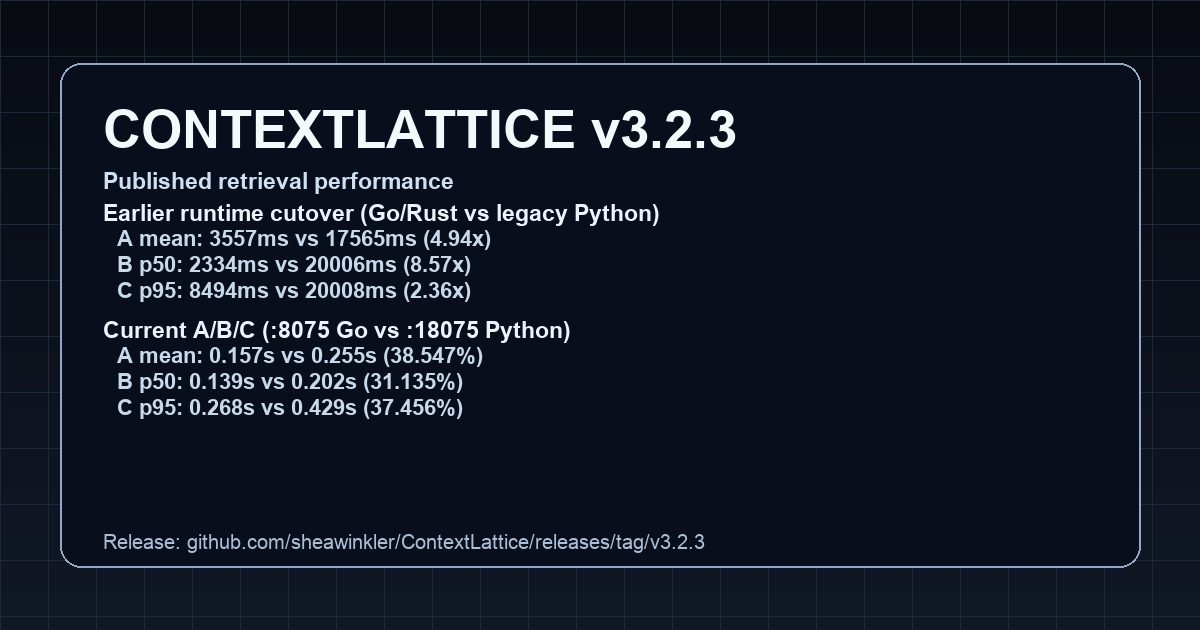
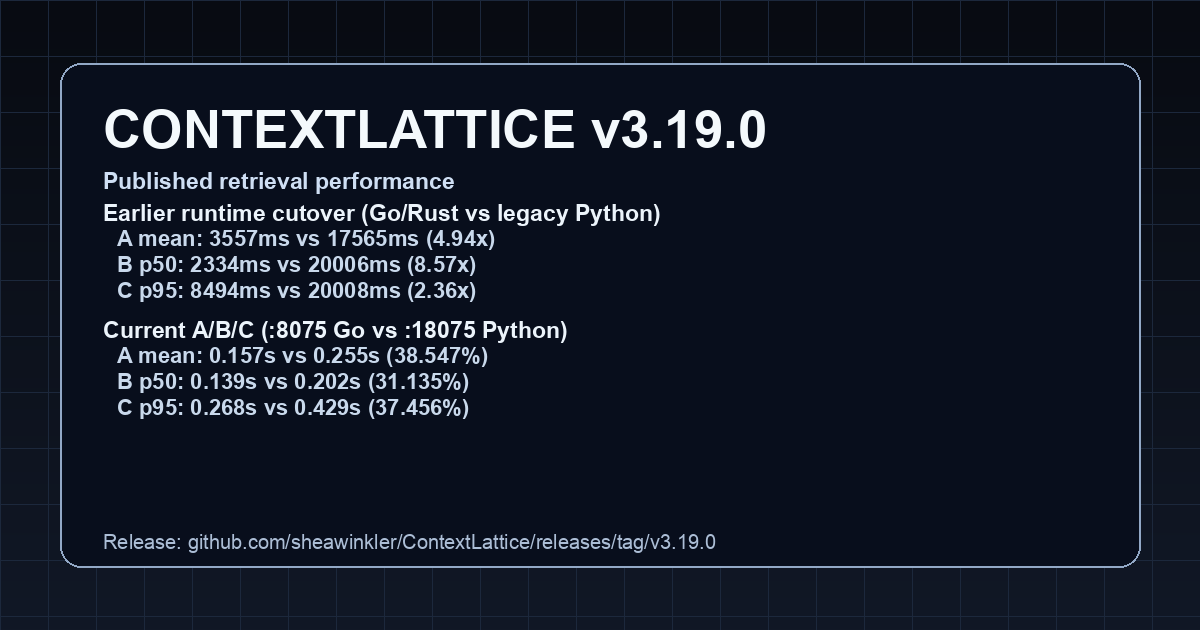
Sync public overview assets from private repo

diff --git a/updates.html b/updates.html
@@ -46,16 +46,109 @@
     <section class="section">
       <article class="card">
         <div class="kicker">Current launch boundary</div>
-        <h3>v3.17.2 puts model storage exactly where the operator says it belongs.</h3>
+        <h3>v3.19.1 makes terminal state true.</h3>
         <ul class="spec-list">
-          <li><strong>Public v3.17.2:</strong> set one absolute <code>OLLAMA_DATA</code> path and keep model blobs off a constrained system disk.</li>
+          <li><strong>Complete means complete:</strong> CLI terminal commands now close the session, finish its rollup, and move agent lifecycle state to <code>done</code>.</li>
+          <li><strong>No positional trap:</strong> flag-only <code>--summary</code> completion and failure commands no longer panic.</li>
+          <li><strong>Old clients heal forward:</strong> legacy singular terminal events canonicalize at ingestion instead of stranding finished sessions as active.</li>
           <li><strong>Interface priority:</strong> use CLI commands first; use dashboard for visibility and HTTP/MCP when an app or agent harness needs an integration surface.</li>
-          <li><strong>Mount truth:</strong> startup verifies the live Ollama bind source and rejects drift before it becomes a storage surprise.</li>
+          <li><strong>The v3.19 engine stays intact:</strong> packet deltas, proof timelines, entitlement boundaries, retention, and rollback contracts are unchanged.</li>
         </ul>
       </article>
     </section>
 
     <section class="section timeline">
+      <article class="update-card">
+        <span class="update-meta">2026-07-17 · v3.19.1 · Sessions That Actually End.</span>
+        <h2>Complete means complete.</h2>
+        <p>
+          The CLI now turns a terminal command into terminal system truth: no panic, no active-session ghost,
+          and no disagreement between the event, session, rollup, and agent lifecycle.
+        </p>
+        <ul>
+          <li><strong>Panic removed:</strong> <code>complete</code> and <code>fail</code> accept a flag-only summary safely.</li>
+          <li><strong>Canonical lifecycle:</strong> the CLI emits <code>session.completed</code> and <code>session.failed</code>.</li>
+          <li><strong>Backward-compatible repair:</strong> the gateway canonicalizes legacy singular aliases before applying terminal state.</li>
+          <li><strong>No product-boundary drift:</strong> storage, entitlement, packet, proof, and integration contracts remain unchanged.</li>
+        </ul>
+      </article>
+
+      <article class="update-card">
+        <span class="update-meta">2026-07-16 · v3.19.0 · The Delta and the Proof.</span>
+        <h2>Less context baggage. More evidence.</h2>
+        <p>
+          Agent Packets now transmit only the verified delta when it is smaller, while one bounded proof timeline shows
+          what the agent knew, did, fixed, proved, and taught the system.
+        </p>
+        <ul>
+          <li><strong>Digest-verified deltas:</strong> acknowledged bases, canonical operations, tombstones, and reconstruction digests preserve exact model-visible context.</li>
+          <li><strong>Safe fallback:</strong> stale, tampered, mismatched, expired, or uneconomic bases return the full packet instead of gambling on compression.</li>
+          <li><strong>Proof without theater:</strong> absent or corrupt evidence becomes an explicit gap; provider calls and authoritative mutations remain outside the projection.</li>
+          <li><strong>Governed collaboration:</strong> paid shared retention and workspace timelines require entitlement, bounded storage, receipts, and explicit rollback.</li>
+        </ul>
+      </article>
+
+      <article class="update-card">
+        <span class="update-meta">2026-07-14 · v3.18.0 · Continuity Has an Identity.</span>
+        <h2>Agents stop starting over.</h2>
+        <p>
+          Work now keeps one durable identity across agents, accounts, models, sessions, branches, and worktrees.
+          Exact evidence wins first; deterministic semantic continuity reconnects only unambiguous work and abstains on doubt.
+        </p>
+        <ul>
+          <li><strong>Holdout-proven continuity:</strong> the locked scorer resolves the release holdout with zero false merges and no provider calls.</li>
+          <li><strong>Living objective history:</strong> shared graphs expose bounded nodes, edges, and transitions without flattening time.</li>
+          <li><strong>Witnessed decisions:</strong> independent review and immutable core anchors travel with every governed change.</li>
+          <li><strong>Hard rollback:</strong> force-disable, restart, functional deactivation, and previous-image recovery preserve stored evidence.</li>
+        </ul>
+      </article>
+
+      <article class="update-card">
+        <span class="update-meta">2026-07-13 · v3.17.5 · Current Means Current.</span>
+        <h2>State stops haunting recall.</h2>
+        <p>
+          A live position, policy snapshot, or runtime mode is not a diary entry. ContextLattice now keeps one exact
+          current value and prevents stale copies from resurfacing through semantic history, vector stores, Mongo-derived
+          snapshots, Rust accelerators, or Meilisearch.
+        </p>
+        <ul>
+          <li><strong>Latest-only by construction:</strong> state mirrors overwrite their canonical file and never enter ordinary history, rollups, graph confidence, or semantic fanout.</li>
+          <li><strong>Source-agnostic suppression:</strong> the gateway filters stale state at the final retrieval boundary, regardless of which backend returned it.</li>
+          <li><strong>Bounded privacy repair:</strong> owner-only migration streams fixed-size batches, persists durable receipts, and keeps startup responsive.</li>
+          <li><strong>No registry, no guess:</strong> readers retain safety instead of treating missing classification as permission to index everything.</li>
+        </ul>
+      </article>
+
+      <article class="update-card">
+        <span class="update-meta">2026-07-13 · v3.17.4 · Trust, Delivered.</span>
+        <h2>The boundary caught the residue. The patch made the boundary permanent.</h2>
+        <p>
+          The v3.17.3 installer gate rejected one unused paid-lane environment key in a public test fixture.
+          v3.17.4 removes it, adds a regression assertion, and publishes the exact public tree forward-only.
+        </p>
+        <ul>
+          <li><strong>No tag games:</strong> the failed release remains immutable and the correction ships as a new patch.</li>
+          <li><strong>No runtime churn:</strong> every v3.17.3 storage, approval, temporal, routing, and ownership hardening remains unchanged.</li>
+          <li><strong>No porous boundary:</strong> public artifact builds reject paid machine-binding vocabulary before packaging.</li>
+        </ul>
+      </article>
+
+      <article class="update-card">
+        <span class="update-meta">2026-07-13 · v3.17.3 · Trust Before Magic.</span>
+        <h2>Before memory gets more magical, its floor gets harder.</h2>
+        <p>
+          ContextLattice now turns six quiet assumptions into enforced contracts: private storage, pre-execution approval,
+          evidence-qualified runner advice, time-aware recall, canonical task routes, and exact native route ownership.
+        </p>
+        <ul>
+          <li><strong>Owner-only means owner-only:</strong> sensitive files use restrictive POSIX modes or protected Windows ACLs, with bounded resumable migration and symlink containment.</li>
+          <li><strong>No approval, no work:</strong> blocked tasks stop before routing, context expansion, inference, adapters, or memory writeback.</li>
+          <li><strong>Advice earns its confidence:</strong> sparse runners stay visible, but recommendations require a real sample floor.</li>
+          <li><strong>History stays honest:</strong> retracted claims leave default current-state recall while remaining explicitly queryable.</li>
+          <li><strong>One contract, one gateway:</strong> task guidance uses canonical routes and strict native ownership is tested against the registered mux.</li>
+        </ul>
+      </article>
+
       <article class="update-card">
         <span class="update-meta">2026-07-13 · v3.17.2 · Your Models. Your Disk.</span>
         <h2>Local-first should not mean internal-disk-first.</h2>
@@ -80,7 +173,7 @@
         </p>
         <ul>
           <li><strong>Self-contained delivery:</strong> macOS, Windows, and Linux packages embed the tagged payload and hard-fail if it is absent; no public clone fallback exists.</li>
-          <li><strong>Signed local access:</strong> Ed25519 runtime licenses derive plan, role, and feature permission from signed claims while production enforcement fails closed.</li>
+          <li><strong>Signed local access:</strong> Ed25519 runtime licenses derive plan, role, and feature permission from signed claims while local development can remain keyless only in an explicit non-production mode.</li>
           <li><strong>Private origins stay private:</strong> entitled downloads stream through a bounded proxy that verifies SHA-256 before returning bytes and permits only configured redirect origins.</li>
           <li><strong>Drift becomes a failing test:</strong> commercial truth, paid/private parity, lane hygiene, release metadata, installer behavior, and secret exclusion are executable gates.</li>
         </ul>

diff --git a/premium.html b/premium.html
@@ -42,7 +42,7 @@
       </p>
       <p class="muted-note">Hosted target surface: <code>app.contextlattice.io</code></p>
       <!-- BEGIN GENERATED COMMERCIAL TRUTH: premium-release -->
-      <p class="muted-note">Current release: <code>v3.17.2</code>. The CLI is the primary product interface; the dashboard is the account and visibility companion.</p>
+      <p class="muted-note">Current release: <code>v3.19.1</code>. The CLI is the primary product interface; the dashboard is the account and visibility companion.</p>
       <!-- END GENERATED COMMERCIAL TRUTH: premium-release -->
       <div class="cta-row">
         <a class="cta primary" href="https://app.contextlattice.io/billing" target="_blank" rel="noreferrer">Buy Premium</a>
@@ -75,25 +75,25 @@
               <td><strong>Starter</strong></td>
               <td>$24/mo or $240/yr</td>
               <td>Paid single-operator access to hosted artifacts and protected runtime operations.</td>
-              <td>CLI workflows, Local-first Go/Rust runtime, Durable memory, Staged retrieval, Agent session context, Dashboard visibility, Premium artifact downloads, Signed runtime licenses, Protected runtime operations</td>
+              <td>CLI workflows, Local-first Go/Rust runtime, Durable memory, Staged retrieval, Agent session context, Dashboard visibility, Premium artifact downloads, Signed runtime licenses, Protected runtime operations, Context that travels at the speed of the work</td>
             </tr>
             <tr>
               <td><strong>Team</strong></td>
               <td>$99/mo or $990/yr</td>
               <td>Shared workspace and analytics access for teams shipping agent workflows.</td>
-              <td>CLI workflows, Local-first Go/Rust runtime, Durable memory, Staged retrieval, Agent session context, Dashboard visibility, Premium artifact downloads, Signed runtime licenses, Shared workspace controls, Plan-gated analytics, Protected runtime operations</td>
+              <td>CLI workflows, Local-first Go/Rust runtime, Durable memory, Staged retrieval, Agent session context, Dashboard visibility, Premium artifact downloads, Signed runtime licenses, Shared workspace controls, Plan-gated analytics, Protected runtime operations, Context that travels at the speed of the work, Every agent run, with receipts, Continuity that recognizes the work, The living arc of the mission, Decisions with a memory and a witness</td>
             </tr>
             <tr>
               <td><strong>Operator</strong></td>
               <td>$299/mo or $2990/yr</td>
               <td>Advanced operator lane for protected runtime operations and analytics.</td>
-              <td>CLI workflows, Local-first Go/Rust runtime, Durable memory, Staged retrieval, Agent session context, Dashboard visibility, Premium artifact downloads, Signed runtime licenses, Plan-gated analytics, Protected runtime operations</td>
+              <td>CLI workflows, Local-first Go/Rust runtime, Durable memory, Staged retrieval, Agent session context, Dashboard visibility, Premium artifact downloads, Signed runtime licenses, Plan-gated analytics, Protected runtime operations, Context that travels at the speed of the work, Every agent run, with receipts, Continuity that recognizes the work, The living arc of the mission</td>
             </tr>
             <tr>
               <td><strong>Enterprise</strong></td>
               <td>Custom</td>
-              <td>Custom-priced enterprise access with existing workspace and provisioning controls.</td>
-              <td>CLI workflows, Local-first Go/Rust runtime, Durable memory, Staged retrieval, Agent session context, Dashboard visibility, Premium artifact downloads, Signed runtime licenses, Shared workspace controls, Plan-gated analytics, Protected runtime operations, SCIM token management</td>
+              <td>Custom-priced enterprise access with workspace controls and SCIM token management.</td>
+              <td>CLI workflows, Local-first Go/Rust runtime, Durable memory, Staged retrieval, Agent session context, Dashboard visibility, Premium artifact downloads, Signed runtime licenses, Shared workspace controls, Plan-gated analytics, Protected runtime operations, Context that travels at the speed of the work, Every agent run, with receipts, Continuity that recognizes the work, The living arc of the mission, Decisions with a memory and a witness, SCIM token management</td>
             </tr>
             <!-- END GENERATED COMMERCIAL TRUTH: premium-plans -->
           </tbody>
@@ -174,6 +174,31 @@
               <td><strong>SCIM token management</strong><br><span class="muted-note">Issue and manage the existing enterprise SCIM token surface.</span></td>
               <td>Not included</td>
               <td>Enterprise</td>
+            </tr>
+            <tr>
+              <td><strong>Continuity that recognizes the work</strong><br><span class="muted-note">Reconnect a new task alias to proven prior work automatically when an exact-first, holdout-locked identity gate is unambiguous.</span></td>
+              <td>Not included</td>
+              <td>Team, Operator, Enterprise</td>
+            </tr>
+            <tr>
+              <td><strong>The living arc of the mission</strong><br><span class="muted-note">See workspace-scoped objectives, branches, dependencies, dead ends, decisions, and outcomes as one durable graph without rewriting its evidence.</span></td>
+              <td>Not included</td>
+              <td>Team, Operator, Enterprise</td>
+            </tr>
+            <tr>
+              <td><strong>Decisions with a memory and a witness</strong><br><span class="muted-note">Review, approve, and export decision changes against exact immutable evidence with bounded, hash-verifiable pages.</span></td>
+              <td>Not included</td>
+              <td>Team, Enterprise</td>
+            </tr>
+            <tr>
+              <td><strong>Context that travels at the speed of the work</strong><br><span class="muted-note">Carry acknowledged Agent Packet lineage across machines and shared workspaces with exact deltas, signed receipts, bounded retention, and verified full fallback.</span></td>
+              <td>Not included</td>
+              <td>Included</td>
+            </tr>
+            <tr>
+              <td><strong>Every agent run, with receipts</strong><br><span class="muted-note">Retain, inspect, analyze, and export one integrity-checked timeline of what an agent knew, did, corrected, proved, and taught across an authorized workspace.</span></td>
+              <td>Not included</td>
+              <td>Team, Operator, Enterprise</td>
             </tr>
             <!-- END GENERATED COMMERCIAL TRUTH: premium-capabilities -->
           </tbody>

diff --git a/installation.html b/installation.html
@@ -164,11 +164,11 @@ brew info --cask sheawinkler/contextlattice/contextlattice</code></pre>
         <div class="priority-row"><span class="priority-chip required">Required</span></div>
         <ul class="spec-list">
           <!-- BEGIN GENERATED COMMERCIAL TRUTH: installation-sizing-release -->
-          <li><strong>Public <code>v3.17.x</code> Hugging Face / Glama lite:</strong> <code>2-4</code> vCPU, <code>4-8 GB</code> RAM, <code>20-50 GB</code> SSD</li>
-          <li><strong>Public <code>v3.17.x</code> local Lite:</strong> <code>2-4</code> vCPU, <code>8-12 GB</code> RAM, <code>25-80 GB</code> SSD</li>
-          <li><strong>Public <code>v3.17.x</code> local Lite advanced:</strong> <code>4-6</code> vCPU, <code>12-16 GB</code> RAM, <code>80-140 GB</code> SSD</li>
-          <li><strong>Public <code>v3.17.x</code> local Full (no spike-lab):</strong> <code>6-8</code> vCPU, <code>12-20 GB</code> RAM, <code>100-180 GB</code> SSD</li>
-          <li><strong>Public <code>v3.17.x</code> local Full + spike-lab:</strong> <code>8-12</code> vCPU, <code>24-32 GB</code> RAM, <code>180-300 GB</code> SSD/NVMe</li>
+          <li><strong>Public <code>v3.19.x</code> Hugging Face / Glama lite:</strong> <code>2-4</code> vCPU, <code>4-8 GB</code> RAM, <code>20-50 GB</code> SSD</li>
+          <li><strong>Public <code>v3.19.x</code> local Lite:</strong> <code>2-4</code> vCPU, <code>8-12 GB</code> RAM, <code>25-80 GB</code> SSD</li>
+          <li><strong>Public <code>v3.19.x</code> local Lite advanced:</strong> <code>4-6</code> vCPU, <code>12-16 GB</code> RAM, <code>80-140 GB</code> SSD</li>
+          <li><strong>Public <code>v3.19.x</code> local Full (no spike-lab):</strong> <code>6-8</code> vCPU, <code>12-20 GB</code> RAM, <code>100-180 GB</code> SSD</li>
+          <li><strong>Public <code>v3.19.x</code> local Full + spike-lab:</strong> <code>8-12</code> vCPU, <code>24-32 GB</code> RAM, <code>180-300 GB</code> SSD/NVMe</li>
           <!-- END GENERATED COMMERCIAL TRUTH: installation-sizing-release -->
           <li><strong>Paid local/operator premium:</strong> <code>8-12</code> vCPU, <code>24-48 GB</code> RAM, <code>250 GB-1 TB</code> SSD/NVMe</li>
           <li><strong>Hosted operator baseline:</strong> <code>16+</code> vCPU host, <code>64+ GB</code> RAM, GPU lane, <code>1-2 TB</code> NVMe for retrieval indexes/snapshots</li>
@@ -209,7 +209,7 @@ $HOME/Documents/projects
           <p>Single-container lane for lowest operational overhead and maximum compatibility.</p>
           <ul class="spec-list">
             <!-- BEGIN GENERATED COMMERCIAL TRUTH: installation-deployment-hf -->
-            <li><strong>App version lane:</strong> Public <code>v3.17.x</code></li>
+            <li><strong>App version lane:</strong> Public <code>v3.19.x</code></li>
             <!-- END GENERATED COMMERCIAL TRUTH: installation-deployment-hf -->
             <li><strong>Services:</strong> Gateway + orchestrator in one container, topic rollups retrieval lane</li>
             <li><strong>Retrieval lanes:</strong> <code>topic_rollups</code> default, async continuation where configured</li>
@@ -222,7 +222,7 @@ $HOME/Documents/projects
           <p>Runs the core memory services only. Best for laptop-first or resource-constrained local deployments.</p>
           <ul class="spec-list">
             <!-- BEGIN GENERATED COMMERCIAL TRUTH: installation-deployment-lite -->
-            <li><strong>App version lane:</strong> Public <code>v3.17.x</code></li>
+            <li><strong>App version lane:</strong> Public <code>v3.19.x</code></li>
             <!-- END GENERATED COMMERCIAL TRUTH: installation-deployment-lite -->
             <li><strong>Services:</strong> Gateway-Go frontdoor, orchestrator core, Memory Bank MCP, Mongo raw, Qdrant, MCP hub</li>
             <li><strong>Retrieval lanes:</strong> fast staged sources prioritize <code>topic_rollups + qdrant</code>; pgvector is available in full/operator stacks</li>
@@ -236,7 +236,7 @@ $HOME/Documents/projects
           <p>Enables full retrieval fabric and operations stack including analytics, observability, and deeper RAG support.</p>
           <ul class="spec-list">
             <!-- BEGIN GENERATED COMMERCIAL TRUTH: installation-deployment-full -->
-            <li><strong>App version lane:</strong> Public <code>v3.17.x</code> Full</li>
+            <li><strong>App version lane:</strong> Public <code>v3.19.x</code> Full</li>
             <!-- END GENERATED COMMERCIAL TRUTH: installation-deployment-full -->
             <li><strong>Services:</strong> Lite stack plus MindsDB, Letta, and observability profile</li>
             <li><strong>Deep continuation lane:</strong> async coverage from <code>mindsdb + mongo_raw + letta + memory_bank</code></li>

diff --git a/index.html b/index.html
@@ -481,11 +481,11 @@ gmake monitor-check</code></pre>
       <div class="grid component-grid">
         <article class="card component-card">
           <!-- BEGIN GENERATED COMMERCIAL TRUTH: index-release-heading -->
-          <h3>Public v3.17 (current release train)</h3>
+          <h3>Public v3.19 (current release train)</h3>
           <!-- END GENERATED COMMERCIAL TRUTH: index-release-heading -->
           <ul class="spec-list">
             <!-- BEGIN GENERATED COMMERCIAL TRUTH: index-release-summary -->
-            <li><strong>Current public release:</strong> <code>v3.17.2</code></li>
+            <li><strong>Current public release:</strong> <code>v3.19.1</code></li>
             <li><strong>Primary interface:</strong> CLI workflows for install, context, resume, remember, finish, correct, and doctor; dashboard, HTTP, and MCP are companion surfaces</li>
             <!-- END GENERATED COMMERCIAL TRUTH: index-release-summary -->
             <li><strong>Frontdoor:</strong> <code>gateway-go</code> on <code>:8075</code></li>
@@ -516,7 +516,7 @@ gmake monitor-check</code></pre>
         <div class="mermaid">
 flowchart LR
   <!-- BEGIN GENERATED COMMERCIAL TRUTH: index-release-diagram -->
-  A[Agent or App] --> B["Public Lane: v3.17"]
+  A[Agent or App] --> B["Public Lane: v3.19"]
   <!-- END GENERATED COMMERCIAL TRUTH: index-release-diagram -->
   B --> C["Gateway-Go :8075"]
   C --> D["Public default fast sources: topic_rollups + qdrant"]
@@ -764,7 +764,7 @@ flowchart LR
           <p>Single-container lane focused on compatibility and low footprint.</p>
           <ul class="spec-list">
             <!-- BEGIN GENERATED COMMERCIAL TRUTH: index-deployment-hf -->
-            <li><strong>App version lane:</strong> Public <code>v3.17.x</code></li>
+            <li><strong>App version lane:</strong> Public <code>v3.19.x</code></li>
             <!-- END GENERATED COMMERCIAL TRUTH: index-deployment-hf -->
             <li><strong>Includes:</strong> gateway + orchestrator container with topic-rollup-first retrieval</li>
             <li><strong>Compute:</strong> 2-4 vCPU recommended</li>
@@ -777,7 +777,7 @@ flowchart LR
           <p>Best for local development and constrained laptops where stable memory services matter more than deep analytics.</p>
           <ul class="spec-list">
             <!-- BEGIN GENERATED COMMERCIAL TRUTH: index-deployment-lite -->
-            <li><strong>App version lane:</strong> Public <code>v3.17.x</code></li>
+            <li><strong>App version lane:</strong> Public <code>v3.19.x</code></li>
             <!-- END GENERATED COMMERCIAL TRUTH: index-deployment-lite -->
             <li><strong>Includes:</strong> Gateway-Go frontdoor, orchestrator core, Memory Bank MCP, Mongo raw, Qdrant, outbox fanout, retention workers</li>
             <li><strong>Fast staged retrieval:</strong> <code>topic_rollups + qdrant</code> by default; pgvector remains first-class for full/operator stacks</li>
@@ -791,7 +791,7 @@ flowchart LR
           <p>Best for high-write workloads and richer retrieval where learning loops use every sink, including RAG through Letta.</p>
           <ul class="spec-list">
             <!-- BEGIN GENERATED COMMERCIAL TRUTH: index-deployment-full -->
-            <li><strong>App version lane:</strong> Public <code>v3.17.x</code> Full</li>
+            <li><strong>App version lane:</strong> Public <code>v3.19.x</code> Full</li>
             <!-- END GENERATED COMMERCIAL TRUTH: index-deployment-full -->
             <li><strong>Includes:</strong> Lite mode plus MindsDB analytics, Letta archival memory, observability stack, and full rehydrate tooling</li>
             <li><strong>Deep continuation lane:</strong> async enrichment from <code>mindsdb + mongo_raw + letta + memory_bank</code></li>

diff --git a/cli.html b/cli.html
@@ -38,7 +38,7 @@
       <h1>Install, launch, and validate Context Lattice from terminal in minutes.</h1>
       <p class="sub">Use these commands as the canonical local flow for public and premium lanes, including prompt-ready context compilation before expensive agent reasoning.</p>
       <!-- BEGIN GENERATED COMMERCIAL TRUTH: cli-release-summary -->
-      <p class="muted-note">Current release: <code>v3.17.2</code>. The CLI is the primary product interface; dashboard, HTTP, and MCP remain companion surfaces.</p>
+      <p class="muted-note">Current release: <code>v3.19.1</code>. The CLI is the primary product interface; dashboard, HTTP, and MCP remain companion surfaces.</p>
       <!-- END GENERATED COMMERCIAL TRUTH: cli-release-summary -->
     </section>
 
@@ -114,13 +114,14 @@ contextlattice_agent_session runtime --pretty
 contextlattice_async_inbox_drain --session-id &lt;session-id&gt;
 contextlattice_async_inbox_hook --session-id &lt;session-id&gt;
 contextlattice_agent_trace --session-id &lt;session-id&gt; --tree
+contextlattice_agent_trace --session-id &lt;session-id&gt; --proof --tree
 contextlattice_run_advisor "what should this agent know before solving the task?" --pretty
 contextlattice_agent_runtime_doctor --pretty
 contextlattice_memory_topology --pretty
 contextlattice_pack "what should this agent know before solving the task?" --project contextlattice --pretty
 contextlattice_retrieval_plan "what evidence does this task owe?" --project contextlattice --pretty
 <!-- BEGIN GENERATED COMMERCIAL TRUTH: cli-release-claim -->
-contextlattice_claim_write --project contextlattice --subject release --predicate current_version --object 3.17.2 --pretty
+contextlattice_claim_write --project contextlattice --subject release --predicate current_version --object 3.19.1 --pretty
 <!-- END GENERATED COMMERCIAL TRUTH: cli-release-claim -->
 contextlattice_claim_query "what is current?" --project contextlattice --include-superseded --pretty
 contextlattice_synthesis_pack_v2 "what can the evidence prove?" --project contextlattice --pretty

diff --git a/integration.html b/integration.html
@@ -66,7 +66,7 @@
         <div class="kicker">Version clarity</div>
         <h3>Integration target for launch</h3>
         <ul class="spec-list">
-          <li><strong>Use this for production/public integration:</strong> current public <code>v3.17.x</code> lane on <code>http://127.0.0.1:8075</code>.</li>
+          <li><strong>Use this for production/public integration:</strong> current public <code>v3.19.x</code> lane on <code>http://127.0.0.1:8075</code>.</li>
           <li><strong>Primary interface:</strong> install, adopt, context-pack, checkpoint, and validate through CLI commands first.</li>
           <li><strong>HTTP/MCP role:</strong> use these when an app, local AI workspace, or agent harness needs a programmatic integration surface.</li>
           <li><strong>Current public retrieval baseline:</strong> staged fast-return with async slow-source continuation and Qdrant-first local Lite recall.</li>
